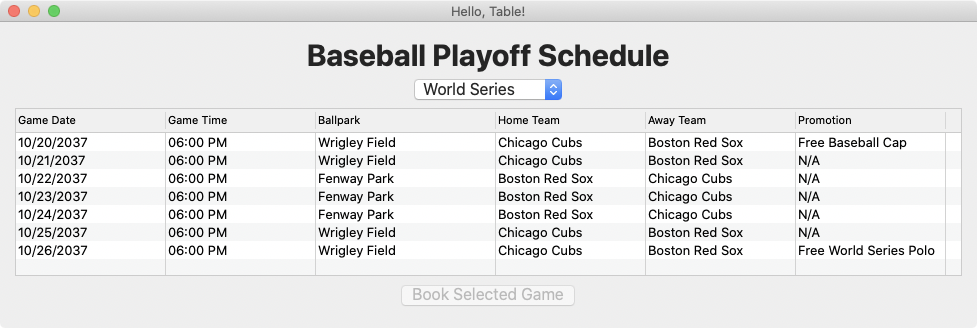
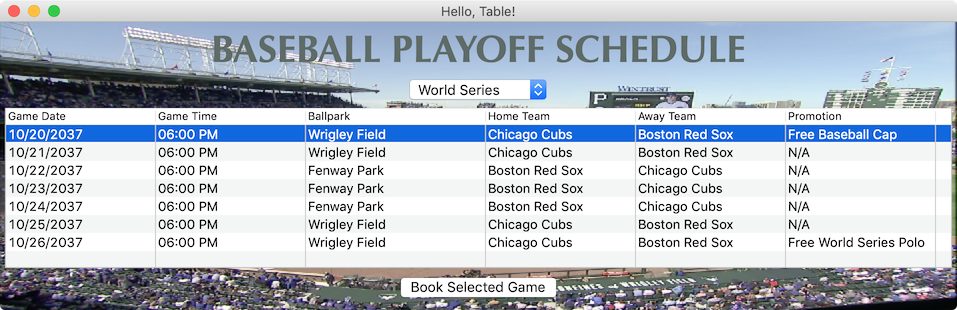
Add a background image to Hello, Table! Sample + font/color changes  / Change Glimmer Tetris Sample up arrow default to rotate left

diff --git a/samples/hello/hello_table.rb b/samples/hello/hello_table.rb
@@ -186,18 +186,20 @@ class HelloTable
       grid_layout
       
       text 'Hello, Table!'
+      background_image File.expand_path('hello_table/baseball_park.png', __dir__)
       
       label {
         layout_data :center, :center, true, false
         
-        text 'Baseball Playoff Schedule'
-        font height: 30, style: :bold
+        text 'BASEBALL PLAYOFF SCHEDULE'
+        foreground rgb(94, 107, 103)
+        font name: 'Optima', height: 38, style: :bold
       }
       
       combo(:read_only) {
         layout_data :center, :center, true, false
         selection bind(BaseballGame, :playoff_type)
-        font height: 16
+        font height: 14
       }
       
       table(:editable) { |table_proxy|
@@ -262,7 +264,7 @@ class HelloTable
       button {
         text 'Book Selected Game'
         layout_data :center, :center, true, false
-        font height: 16
+        font height: 14
         enabled bind(BaseballGame, :selected_game)
         
         on_widget_selected {

diff --git a/lib/glimmer/swt/image_proxy.rb b/lib/glimmer/swt/image_proxy.rb
@@ -84,10 +84,12 @@ module Glimmer
           @original_image_data = @image_data = @swt_image.image_data
         end
         @swt_image.singleton_class.alias_method(:dispose_without_glimmer, :dispose)
-        @swt_image.singleton_class.define_method(:dispose) {
-          clear_shapes
+        proxy = self
+        # TODO consider adding a get_data/set_data method to conform with other SWT widgets
+        @swt_image.singleton_class.define_method(:dispose) do
+          proxy.clear_shapes
           dispose_without_glimmer
-        }
+        end
         post_add_content if content.nil?
       end
       
@@ -123,6 +125,10 @@ module Glimmer
       
       def reset_gc
         @gc = org.eclipse.swt.graphics.GC.new(swt_image)
+      end
+      
+      def disposed?
+        @swt_image.isDisposed
       end
       
       def has_attribute?(attribute_name, *args)

diff --git a/lib/glimmer/swt/widget_proxy.rb b/lib/glimmer/swt/widget_proxy.rb
@@ -165,9 +165,11 @@ module Glimmer
           DEFAULT_INITIALIZERS[underscored_widget_name.to_s.to_sym]&.call(@swt_widget)
           @parent_proxy.post_initialize_child(self)
         end
-        on_widget_disposed {
-          clear_shapes
-        }
+        if respond_to?(:on_widget_disposed)
+          on_widget_disposed {
+            clear_shapes
+          }
+        end
       end
       
       # Subclasses may override to perform post initialization work on an added child

diff --git a/lib/glimmer/swt/display_proxy.rb b/lib/glimmer/swt/display_proxy.rb
@@ -91,6 +91,14 @@ module Glimmer
       def timer_exec(&block)
         @swt_display.timer_exec(&block)
       end
+      
+      def on_widget_disposed(&block)
+        on_swt_Dispose(&block)
+      end
+      
+      def disposed?
+        @swt_display.isDisposed
+      end
 
       def method_missing(method, *args, &block)
         if can_handle_observation_request?(method)

diff --git a/lib/glimmer/data_binding/widget_binding.rb b/lib/glimmer/data_binding/widget_binding.rb
@@ -37,7 +37,7 @@ module Glimmer
         @property = property
         @translator = translator || proc {|value| value} #TODO check on this it doesn't seem used
 
-        if @widget.respond_to?(:dispose)
+        if @widget.respond_to?(:on_widget_disposed)
           @widget.on_widget_disposed do |dispose_event|
             unregister_all_observables
           end

diff --git a/samples/elaborate/meta_sample.rb b/samples/elaborate/meta_sample.rb
@@ -204,7 +204,7 @@ class MetaSampleApplication
     shell(:fill_screen) {
       minimum_size 1280, 768
       text 'Glimmer Meta-Sample (The Sample of Samples)'
-      image File.expand_path('../../icons/scaffold_app.png', __dir__)
+      image File.expand_path('meta_sample/meta_sample_logo.png', __dir__)
       
       sash_form {
         composite {

diff --git a/samples/elaborate/tetris/model/game.rb b/samples/elaborate/tetris/model/game.rb
@@ -51,7 +51,7 @@ class Tetris
         @high_scores = []
         @show_high_scores = false
         @beeping = true
-        @up_arrow_action = :instant_down
+        @up_arrow_action = :rotate_left
         load_high_scores!
       end
       

diff --git a/TODO.md b/TODO.md
@@ -4,10 +4,10 @@ Here is a list of tasks to do (moved to [CHANGELOG.md](CHANGELOG.md) once done).
 
 ## Next
 
+- Support spawning Canvas shapes automatically having the size of the stringExtent/textExtent inside a text/string shape (rendering before string/text is rendered) (alternatively, text may be nested within a rectangle to accomplish the same thing)
 - Document Hello, Code Text!
 
 - Canvas support a Path DSL for methods that take Path arguments
-- Support spawning Canvas shapes automatically having the size of the stringExtent/textExtent inside a text/string shape (rendering before string/text is rendered) (alternatively, text may be nested within a rectangle to accomplish the same thing)
 - Consider Canvas Shape DSL support for LineAttributes (given that line_dash_offset is missing) or alternatively just support line_dash_offset externally
 
 - Support Glimmer::UI::CustomImage to build a named custom image (that could be parameterized with options) using the Canvas Shape DSL
@@ -386,6 +386,7 @@ items <=> binding {
 - Add hello samples for every built-in SWT widget including the custom package
 - Add hello samples for every [Nebula](https://www.eclipse.org/nebula/) widget, in a separate glimmer-cw-nebula gem.
 - Conway's Game of Life (as per https://andymaleh.blogspot.com/2009/11/conways-game-of-life-glimmer-edition.html but the old code is lost)
+- Web data API connected sample app (something that perhaps pulls governmental data and summarizes it/graphs it). Demonstrate how you can write this in a fraction of web code.
 - HR Employee Management app
 - Medical Patient Management app
 - Business Accounting app

diff --git a/README.md b/README.md
@@ -53,6 +53,8 @@ Glimmer app:
 
 ![Hello World](images/glimmer-hello-world.png)
 
+Learn more about [Hello, World!](#hello-world).
+
 ### Hello, Table! Sample
 
 Glimmer GUI DSL code (from [samples/hello/hello_table.rb](samples/hello/hello_table.rb)):
@@ -63,18 +65,20 @@ shell {
   grid_layout
   
   text 'Hello, Table!'
+  background_image File.expand_path('hello_table/baseball_park.png', __dir__)
   
   label {
     layout_data :center, :center, true, false
     
-    text 'Baseball Playoff Schedule'
-    font height: 30, style: :bold
+    text 'BASEBALL PLAYOFF SCHEDULE'
+    foreground rgb(94, 107, 103)
+    font name: 'Optima', height: 38, style: :bold
   }
   
   combo(:read_only) {
     layout_data :center, :center, true, false
     selection bind(BaseballGame, :playoff_type)
-    font height: 16
+    font height: 14
   }
   
   table(:editable) { |table_proxy|
@@ -139,7 +143,7 @@ shell {
   button {
     text 'Book Selected Game'
     layout_data :center, :center, true, false
-    font height: 16
+    font height: 14
     enabled bind(BaseballGame, :selected_game)
     
     on_widget_selected {
@@ -159,6 +163,8 @@ glimmer samples/hello/hello_table.rb
 Glimmer App:
 
 ![Hello Table](images/glimmer-hello-table.png)
+
+Learn more about [Hello, Table!](#hello-table).
 
 ### Tetris
 

diff --git a/CHANGELOG.md b/CHANGELOG.md
@@ -2,8 +2,10 @@
 
 ### 4.18.4.1
 
+- Add a background image to Hello, Table! Sample + font/color changes
 - Make Canvas patterns auto-reused and auto-disposed when canvas is disposed
 - Make Canvas images auto-dispose themselves when canvas is disposed
+- Change Glimmer Tetris Sample up arrow default to rotate left
 - Fix issue with "undefined method lex for nil:NilClass" in `code_text`
 
 ### 4.18.4.0
